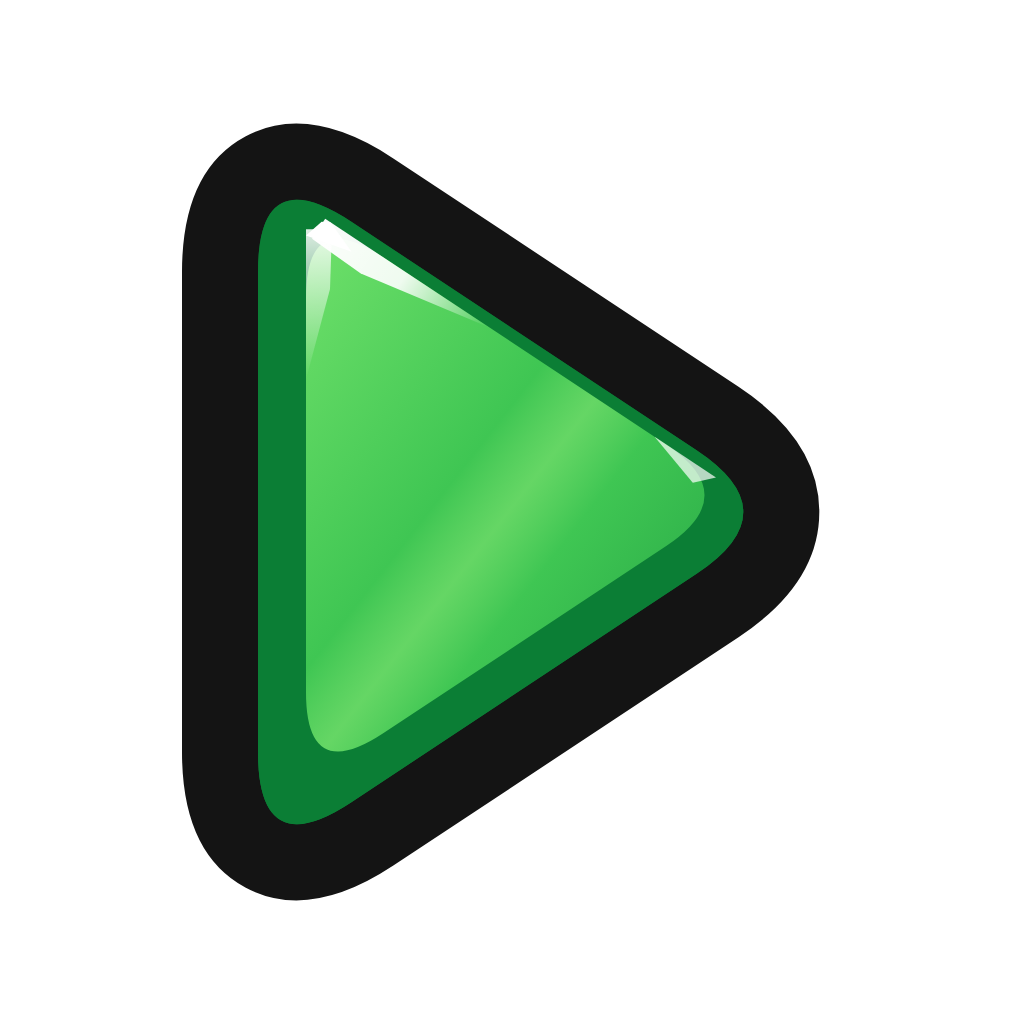
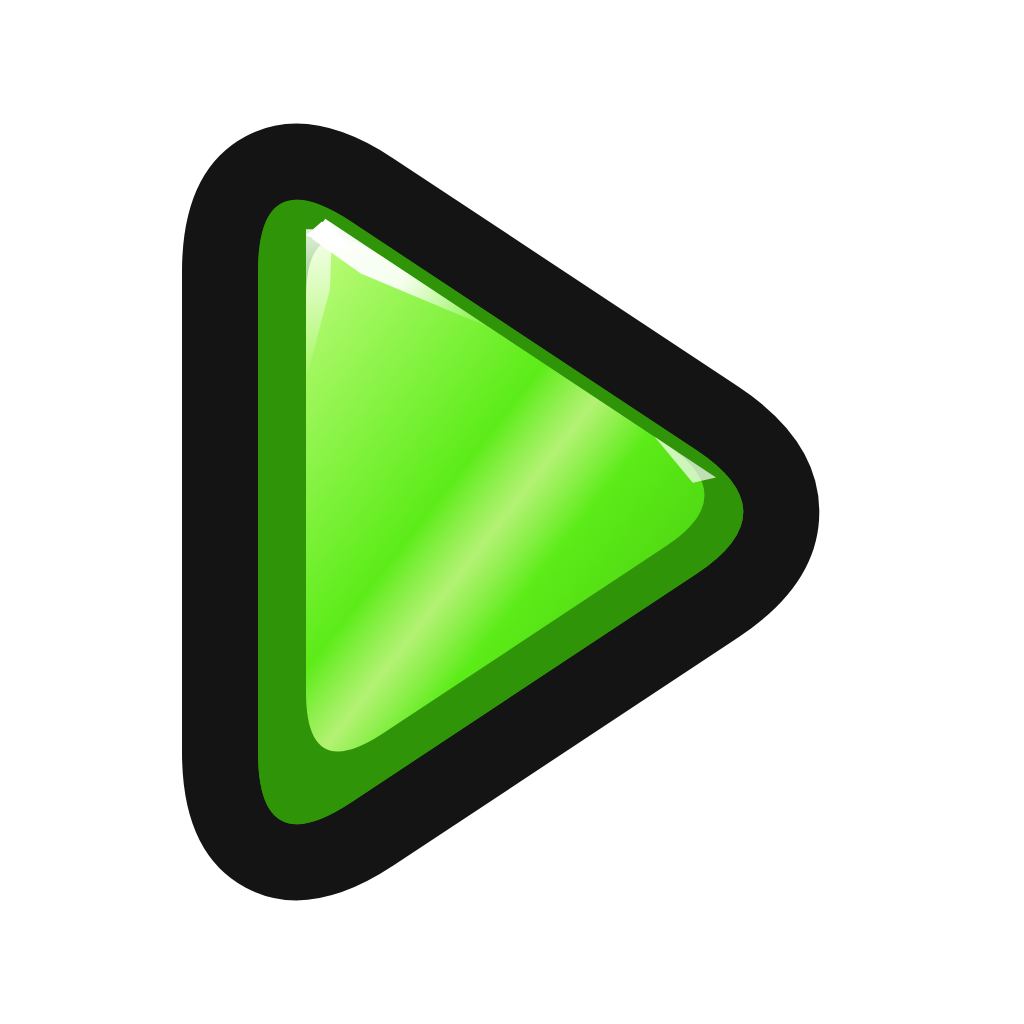
Make green play button a brighter cartoon lime
Claude-Session: https://claude.ai/code/session_017qQQt34xo7TvFdNzaqcfa5

Changed region(s): [[0.25, 0.1875, 0.75, 0.8125]]

diff --git a/icons/src/play_button.py b/icons/src/play_button.py
@@ -18,7 +18,7 @@ COLORS = {  # side (bevel), face light (top-left), face mid, face dark (bottom-r
     "white": ("#aeb8ca", "#ffffff", "#eef2f8", "#cfd6e3"),
     "black": ("#0e0f12", "#686d7a", "#40444d", "#24262c"),
     "red":   ("#9e0d16", "#ff7a6b", "#f2443c", "#c8161f"),
-    "green": ("#0b7e35", "#6fe06a", "#3fc653", "#22a043"),
+    "green": ("#2f9408", "#c2fc80", "#5cec18", "#3fbf0c"),  # bright cartoon lime
 }
 
 # vertices: left-top, right tip, left-bottom (centred on the canvas)
